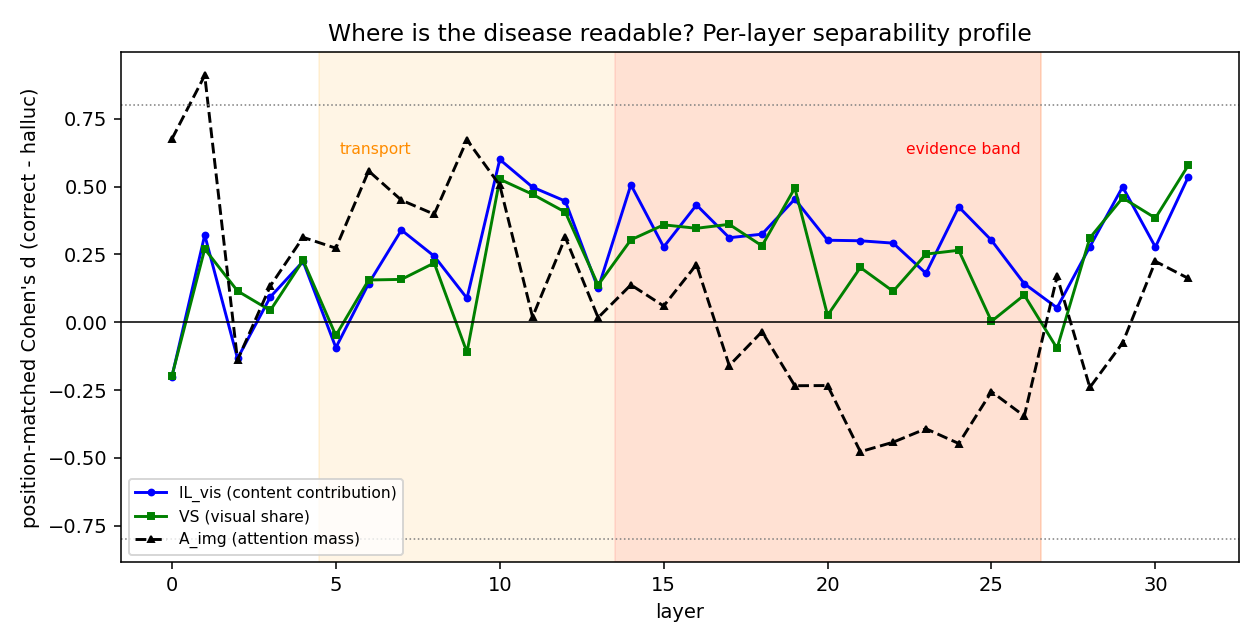
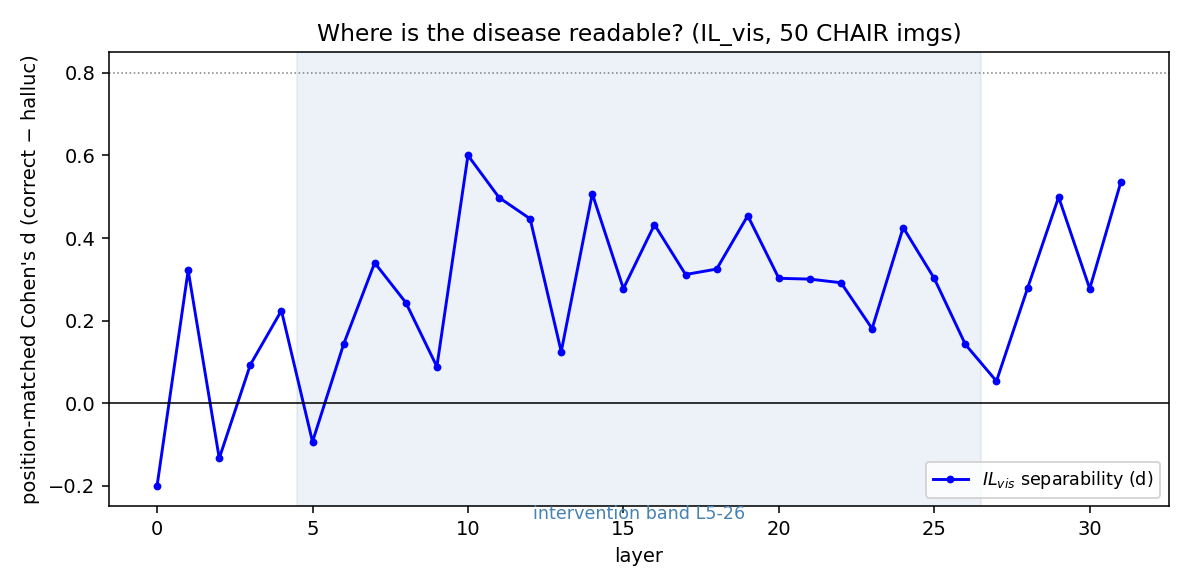
fig2 simplified: IL-only d profile, band rests on ablation table

diff --git a/story_figures.md b/story_figures.md
@@ -23,11 +23,13 @@ $$\widehat S_j = S_j + \beta F_j\ (\text{floor});\qquad \widehat S_r = S_r + \nu
 
 幻觉率随位置 6%→50%（近一个数量级），视觉证据 $IL_{vis}$ 同步坠落 11.1→1.9；注意力质量早早走平、稀释归一化后证据仍单调坠（2.65→0.82）——**流失的是内容密度，不是看的量**。这排除"分母变大"的机械解释，也排除触发式干预（缺口是慢性的，见附录 A2）。
 
-## 正文图 2：病灶定位与层段论证
+## 正文图 2：层段论证（层段是测出来 + 比出来的，不是拍的）
 
 ![band_justification](assets/svd/band_justification.png)
 
-位置匹配的逐层可分性（Cohen's d）：内容通路（$IL_{vis}$/$VS$）从 L5 起持续可分，L0-4 无信号；证据带内 $A_{img}$ 的 d 为**负**——幻觉实体"看得更多、读到更少"（误绑定签名）。层段 L5-26 由此图谱推导，并经消融验证（L5-18 / L14-26 / L0-31 均更差）。**干预只施加在病灶可读的层段。**
+位置匹配的逐层可分性（$IL_{vis}$ 的 Cohen's d，即逐层标准化）：**L0-4 无病灶信号（d≈+0.06）、L5 起持续可读（band 均值 +0.30）**。注：证据带内 $A_{img}$ 的 d 为负（幻觉实体看得更多却读到更少，误绑定签名），文字带过不进图。
+
+**层段的承重金属是 500 图消融表**（非本图）：L5-18（HGAI 论文段）36.0/8.1 → L14-26（只用证据带）53.8（早段搬运用力不足）→ L0-31（全层）更差 → **L5-26 = 32.0/6.9/73.1 最优**。本图只负责回答"为什么这些层参与干预"，层段边界由消融定。
 
 ## 正文图 3：floor 的机制（同一历史 teacher-forced 因果对照）
 
